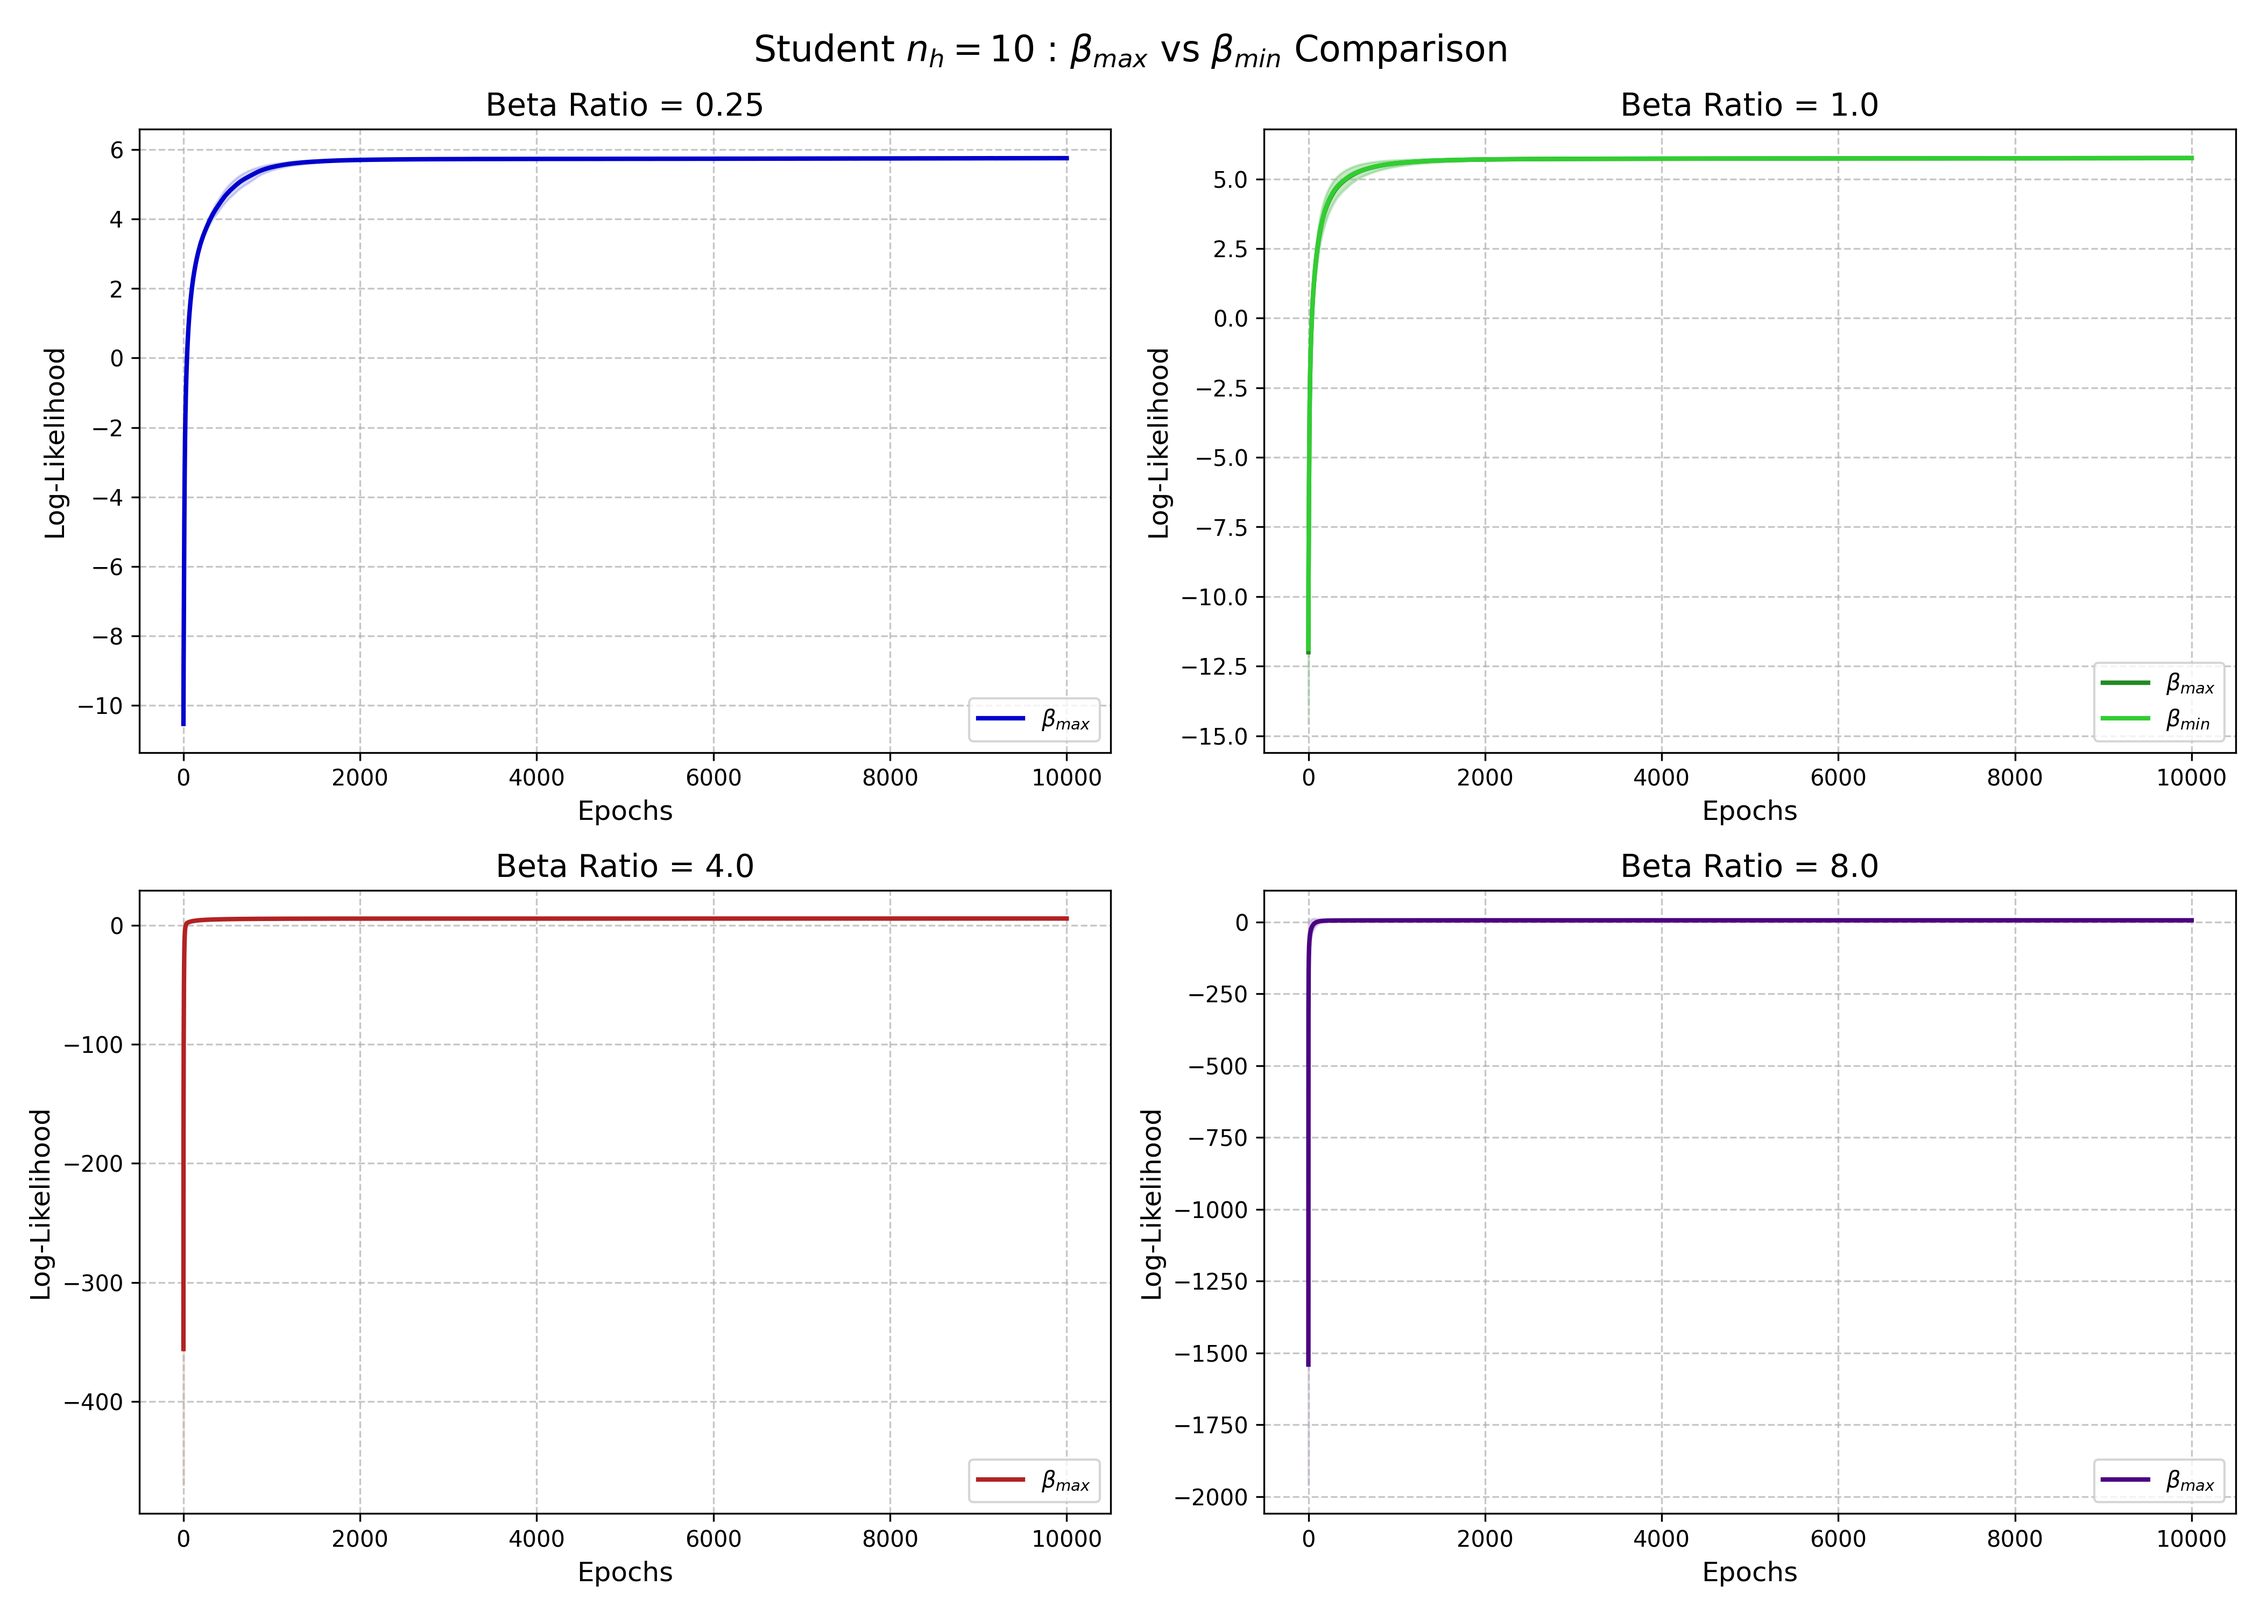
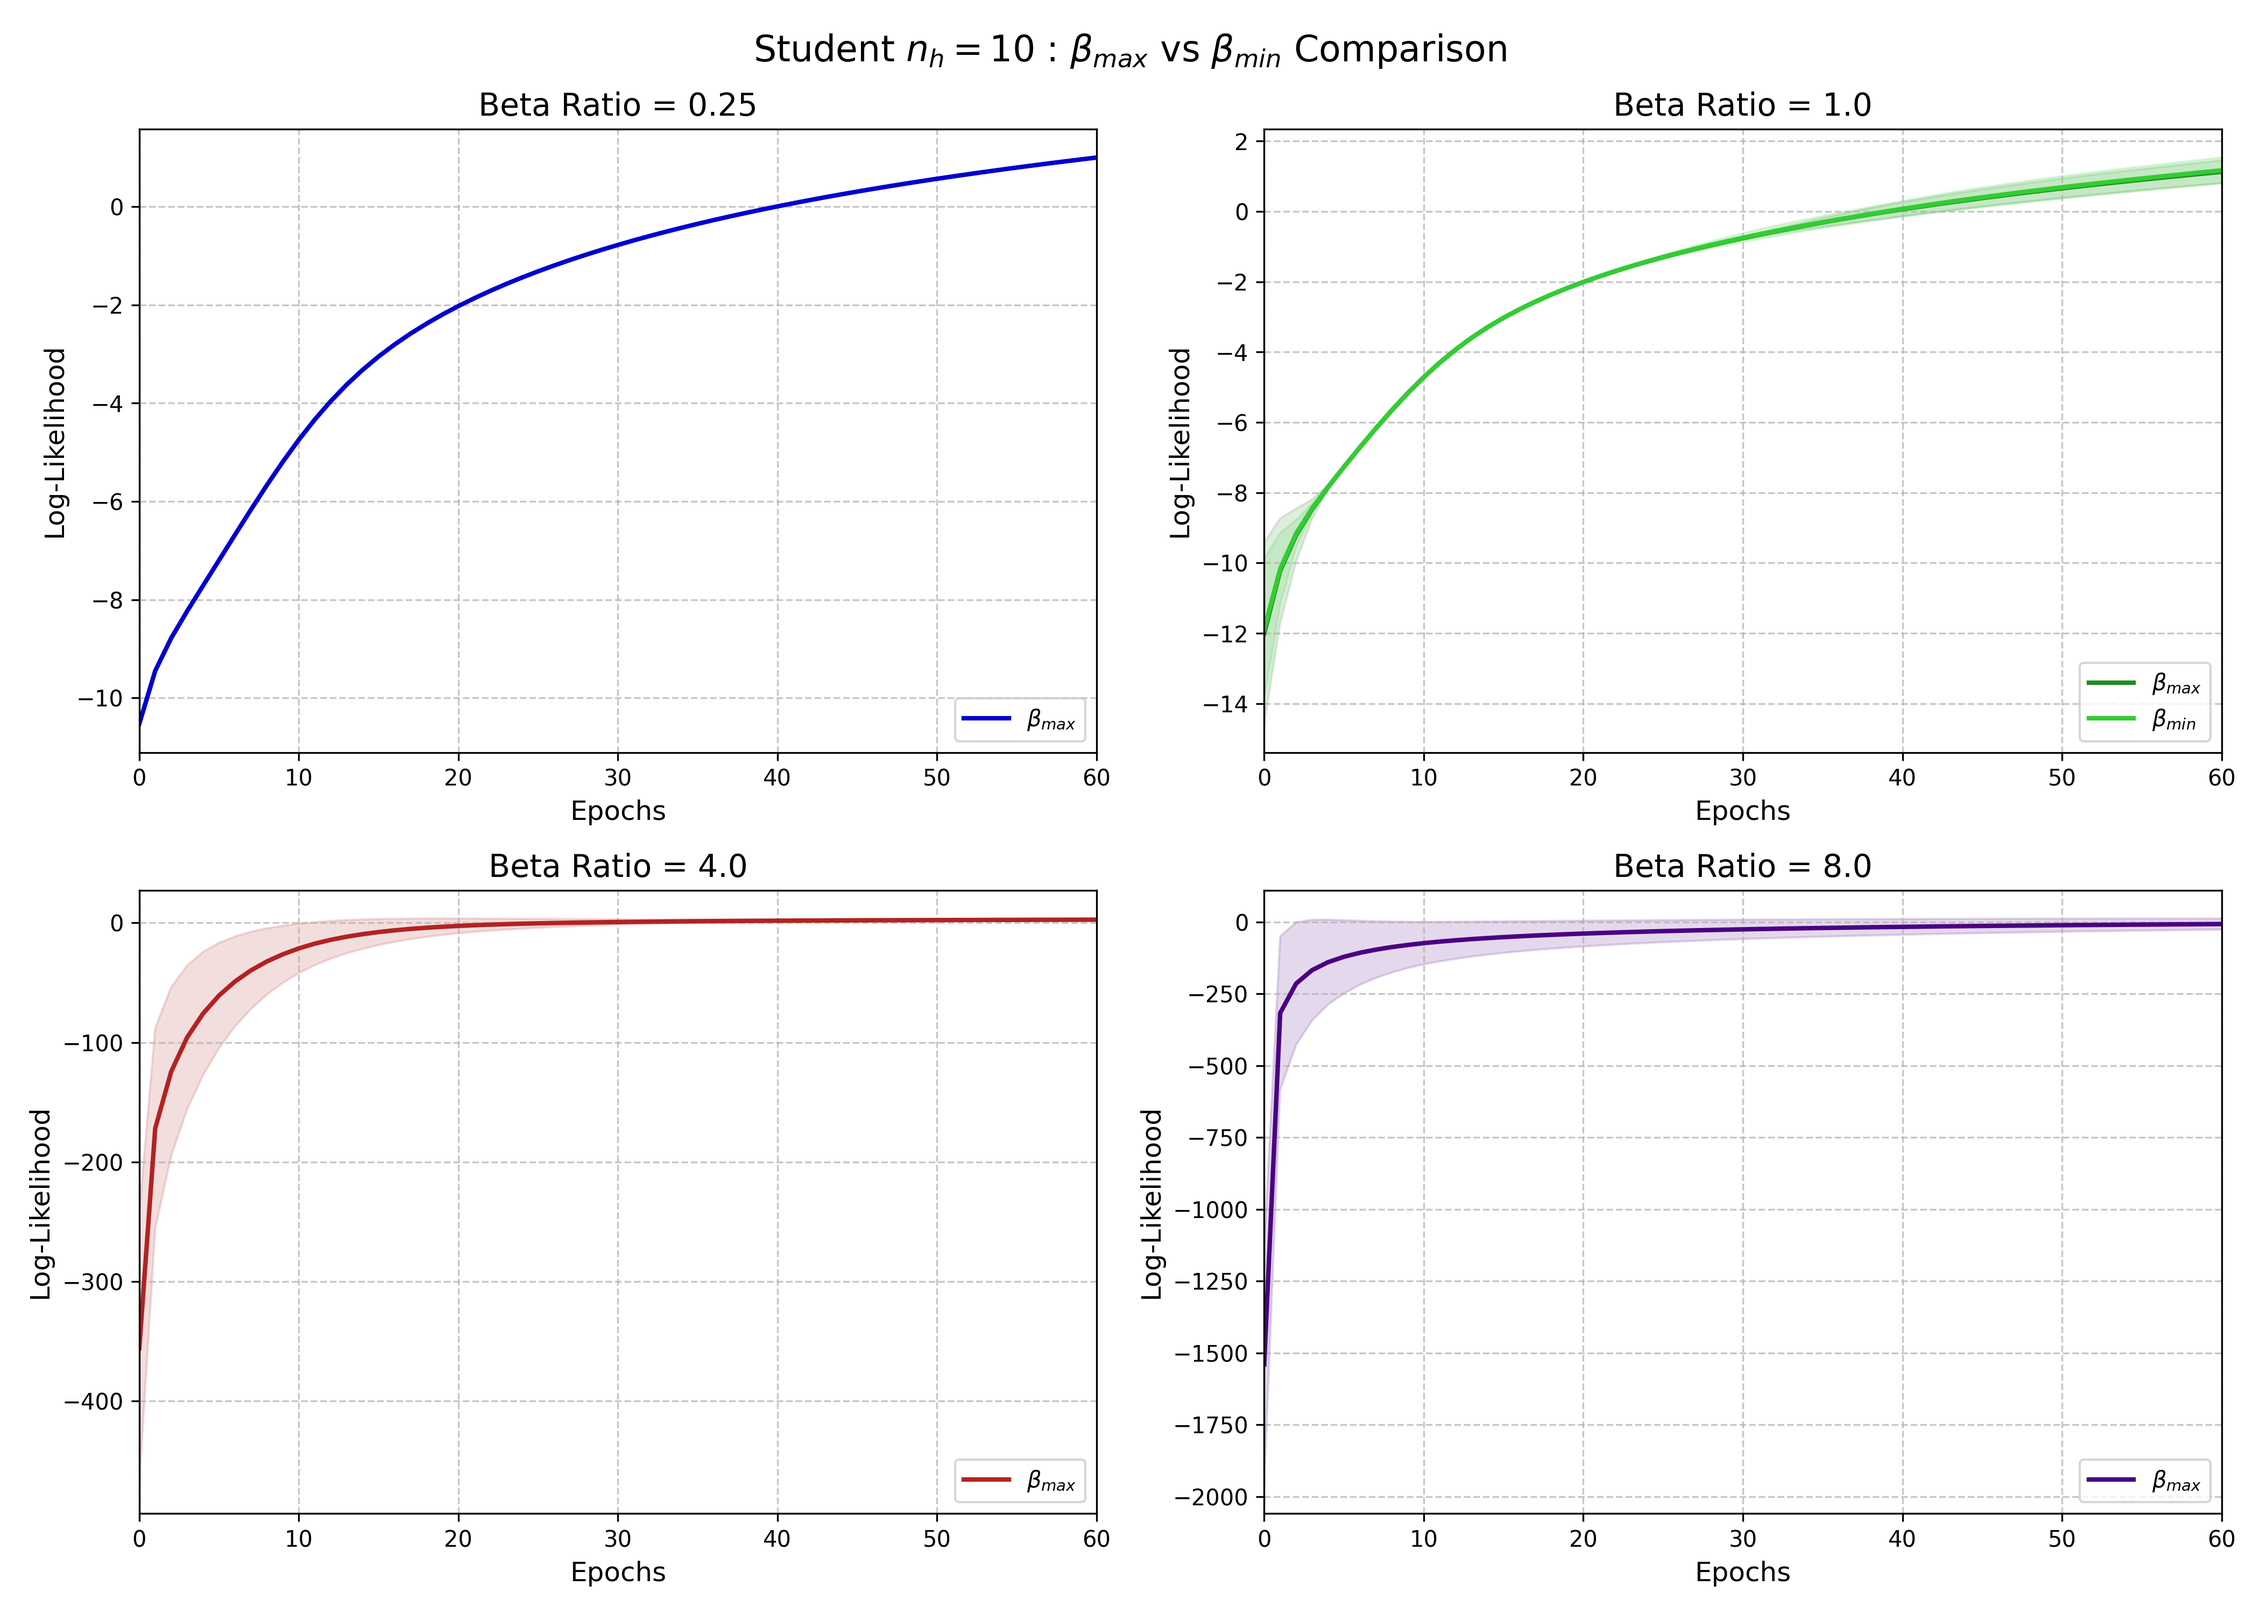
2026/5/25

diff --git a/training_GBRBM/results_visualization_c=-5/plot_ll_c=-5.py b/training_GBRBM/results_visualization_c=-5/plot_ll_c=-5.py
@@ -12,9 +12,9 @@ B_TYPES = ["max", "min"]   # 比較するβのタイプ
 B_RATIOS = [0.25, 1.0, 4.0, 8.0] # 比較するリレーション倍率
 
 # 2. ★表示範囲の指定設定 (3パターン対応)
-X_RANGE_MODE = 'all' #'all', 'from_start', 'to_end'の中から選択 
+X_RANGE_MODE = 'to_end' #'all', 'from_start', 'to_end'の中から選択 
 X_START = 9000
-X_END = 200
+X_END = 60
 Y_MARGIN = 0.05
 
 # 3. パス設定 (スクリプトの配置場所から見た相対パス)
